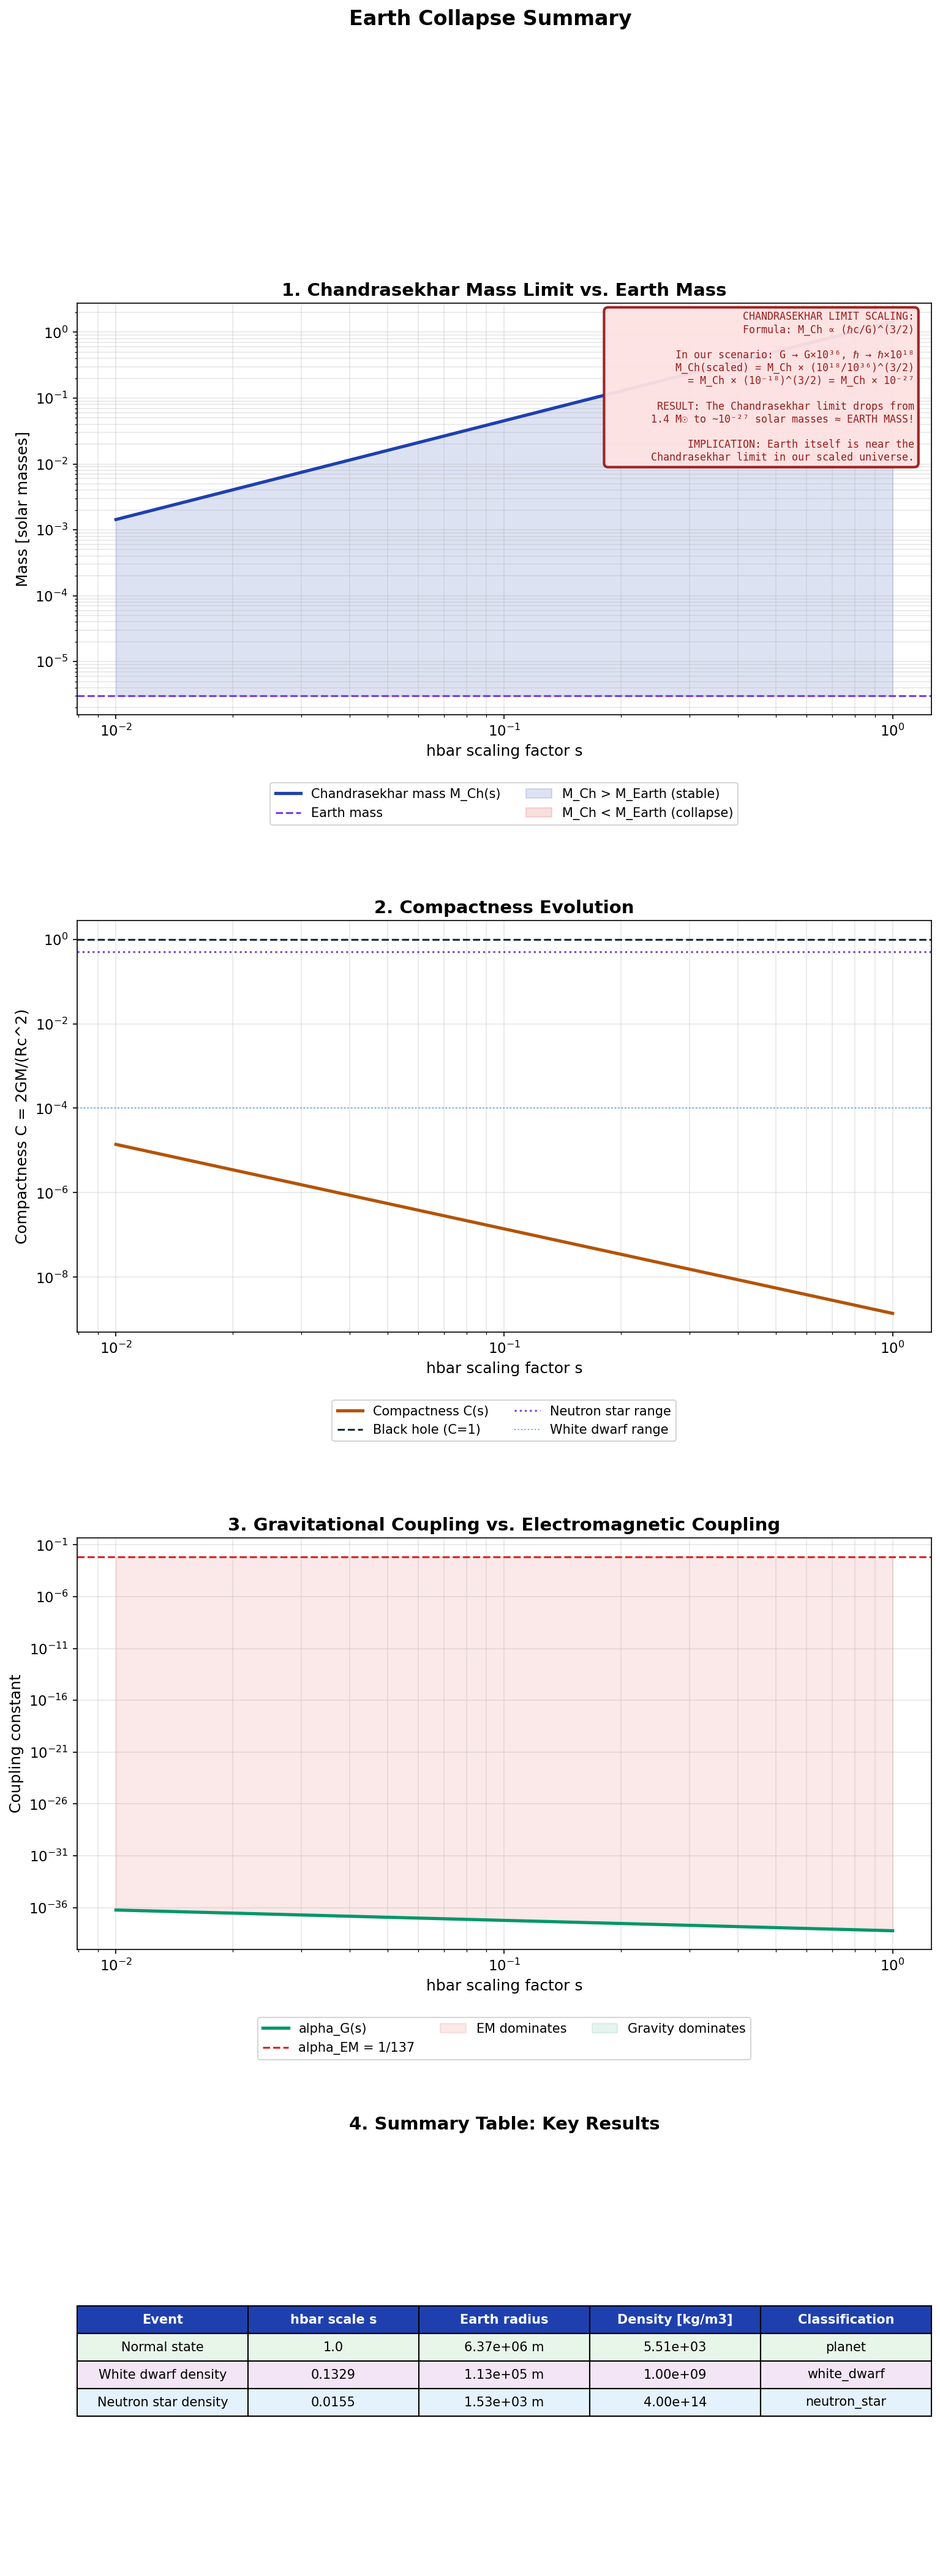
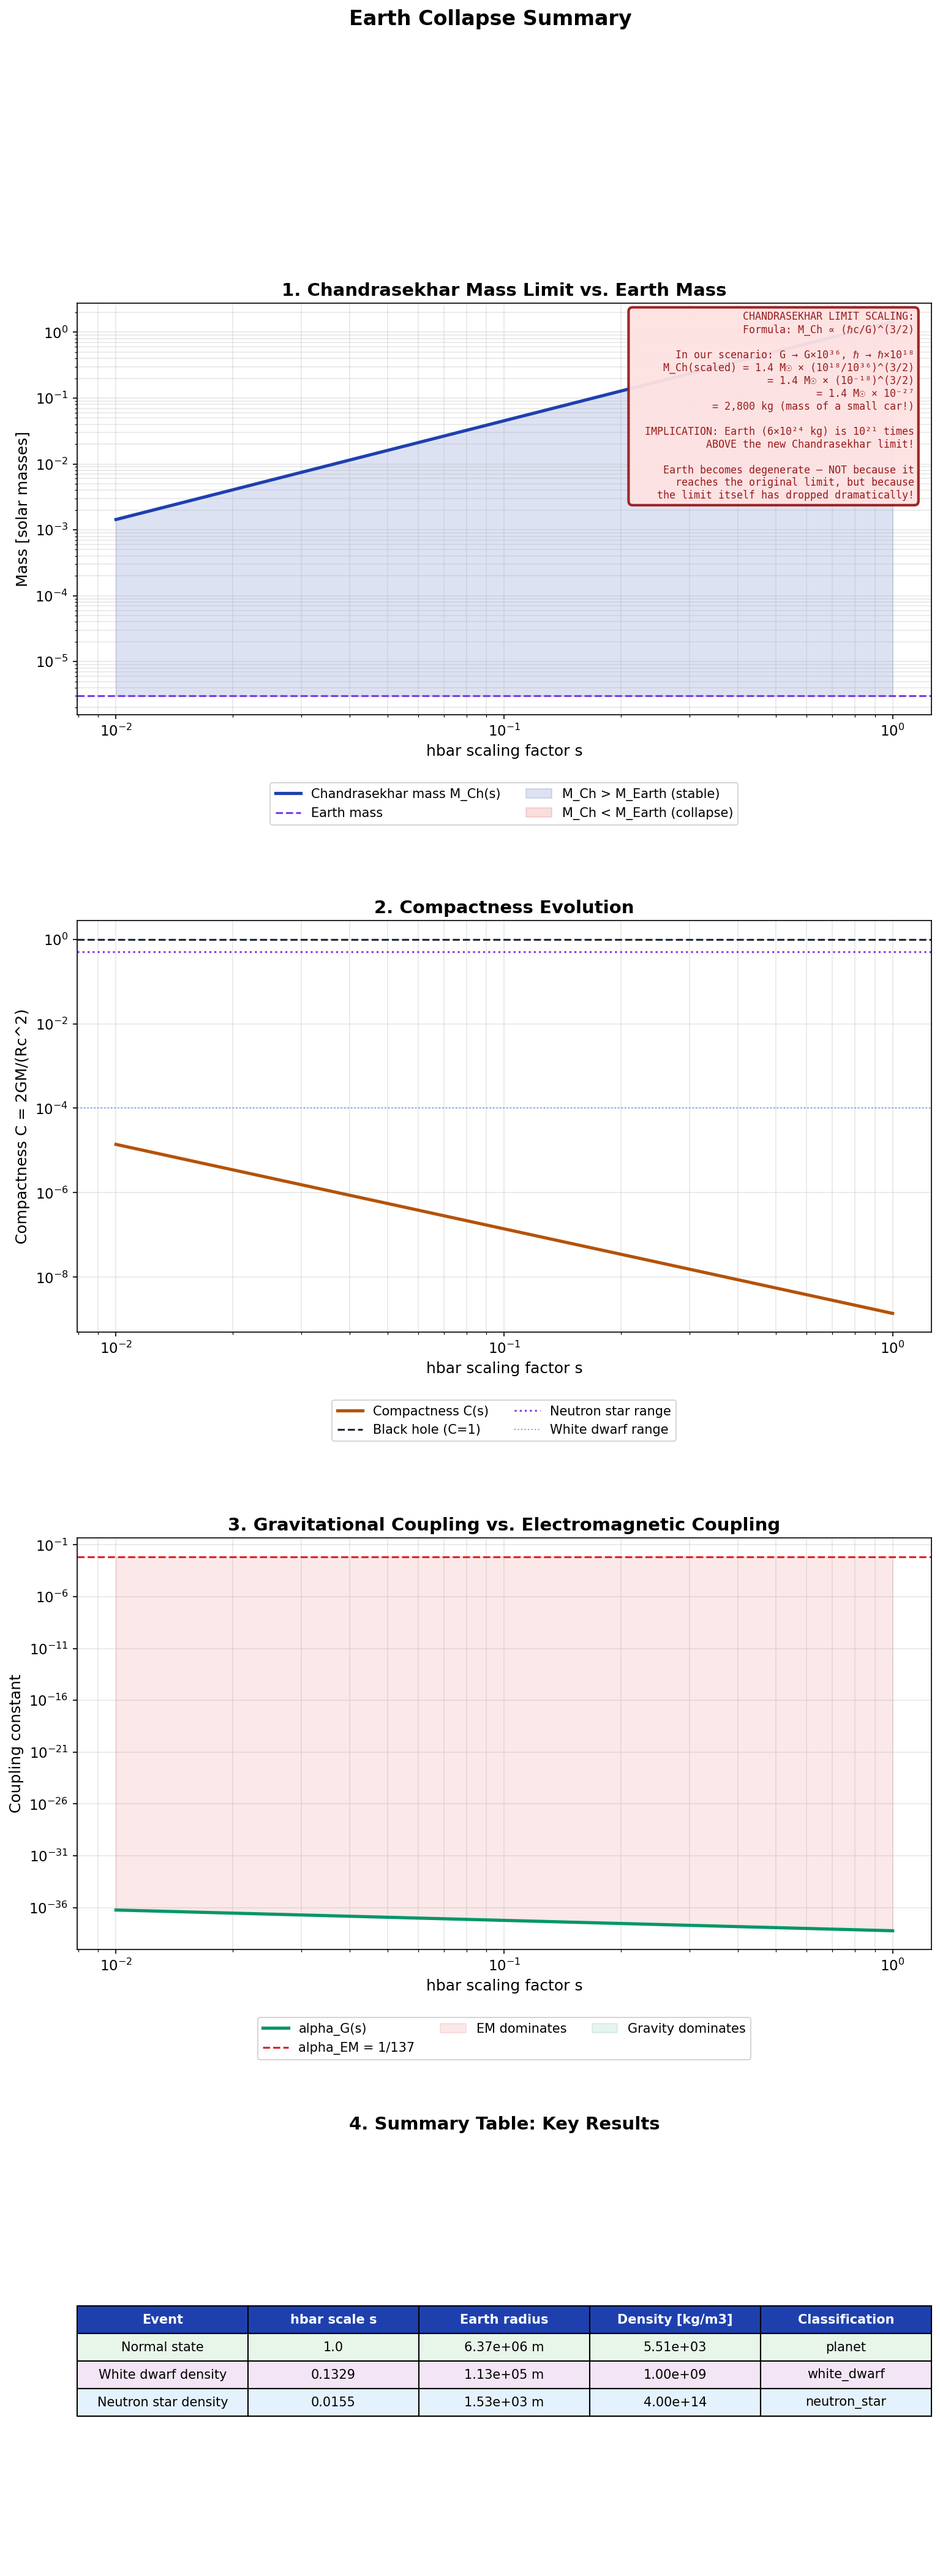
Fix Chandrasekhar limit annotation with actual mass value
Based on reviewer feedback:
- New M_Ch = 1.4 M☉ × 10⁻²⁷ = 2,800 kg (mass of a small car!)
- Earth (6×10²⁴ kg) is 10²¹ times ABOVE the new limit
- Clarified: Earth becomes degenerate NOT because it reaches
  the original limit, but because the limit itself dropped!

This is a key insight for understanding why Earth behaves
like a white dwarf in the G×10³⁶ scenario.

Changed region(s): [[0.643, 0.0934, 0.9798, 0.218]]

diff --git a/modules/earth_collapse.py b/modules/earth_collapse.py
@@ -809,29 +809,36 @@ def plot_earth_collapse_summary(
     ax1.tick_params(axis='both', labelsize=11)
 
     # Fix #4: Add Chandrasekhar Limit calculation annotation for scaled universe
+    # Updated based on reviewer feedback - show actual mass value (2,800 kg)!
     if language == 'de':
         ch_calc_text = (
             'SKALIERUNG DER CHANDRASEKHAR-GRENZE:\n'
             'Formel: M_Ch ∝ (ℏc/G)^(3/2)\n\n'
             'In unserem Szenario: G → G×10³⁶, ℏ → ℏ×10¹⁸\n'
-            'M_Ch(skaliert) = M_Ch × (10¹⁸/10³⁶)^(3/2)\n'
-            '                = M_Ch × (10⁻¹⁸)^(3/2) = M_Ch × 10⁻²⁷\n\n'
-            'ERGEBNIS: Die Chandrasekhar-Grenze sinkt von\n'
-            '1.4 M☉ auf ~10⁻²⁷ Sonnenmassen ≈ ERDMASSE!\n\n'
-            'BEDEUTUNG: Die Erde selbst ist nahe der\n'
-            'Chandrasekhar-Grenze im skalierten Universum.'
+            'M_Ch(skaliert) = 1.4 M☉ × (10¹⁸/10³⁶)^(3/2)\n'
+            '               = 1.4 M☉ × (10⁻¹⁸)^(3/2)\n'
+            '               = 1.4 M☉ × 10⁻²⁷\n'
+            '               = 2.800 kg (Masse eines Autos!)\n\n'
+            'BEDEUTUNG: Erde (6×10²⁴ kg) ist 10²¹-mal\n'
+            'ÜBER der neuen Chandrasekhar-Grenze!\n\n'
+            'Die Erde wird zum entarteten Objekt – NICHT\n'
+            'weil sie die alte Grenze erreicht, sondern\n'
+            'weil die Grenze selbst so stark gesunken ist!'
         )
     else:
         ch_calc_text = (
             'CHANDRASEKHAR LIMIT SCALING:\n'
             'Formula: M_Ch ∝ (ℏc/G)^(3/2)\n\n'
             'In our scenario: G → G×10³⁶, ℏ → ℏ×10¹⁸\n'
-            'M_Ch(scaled) = M_Ch × (10¹⁸/10³⁶)^(3/2)\n'
-            '             = M_Ch × (10⁻¹⁸)^(3/2) = M_Ch × 10⁻²⁷\n\n'
-            'RESULT: The Chandrasekhar limit drops from\n'
-            '1.4 M☉ to ~10⁻²⁷ solar masses ≈ EARTH MASS!\n\n'
-            'IMPLICATION: Earth itself is near the\n'
-            'Chandrasekhar limit in our scaled universe.'
+            'M_Ch(scaled) = 1.4 M☉ × (10¹⁸/10³⁶)^(3/2)\n'
+            '             = 1.4 M☉ × (10⁻¹⁸)^(3/2)\n'
+            '             = 1.4 M☉ × 10⁻²⁷\n'
+            '             = 2,800 kg (mass of a small car!)\n\n'
+            'IMPLICATION: Earth (6×10²⁴ kg) is 10²¹ times\n'
+            'ABOVE the new Chandrasekhar limit!\n\n'
+            'Earth becomes degenerate – NOT because it\n'
+            'reaches the original limit, but because\n'
+            'the limit itself has dropped dramatically!'
         )
 
     # Position the text box in the upper right area of the plot
